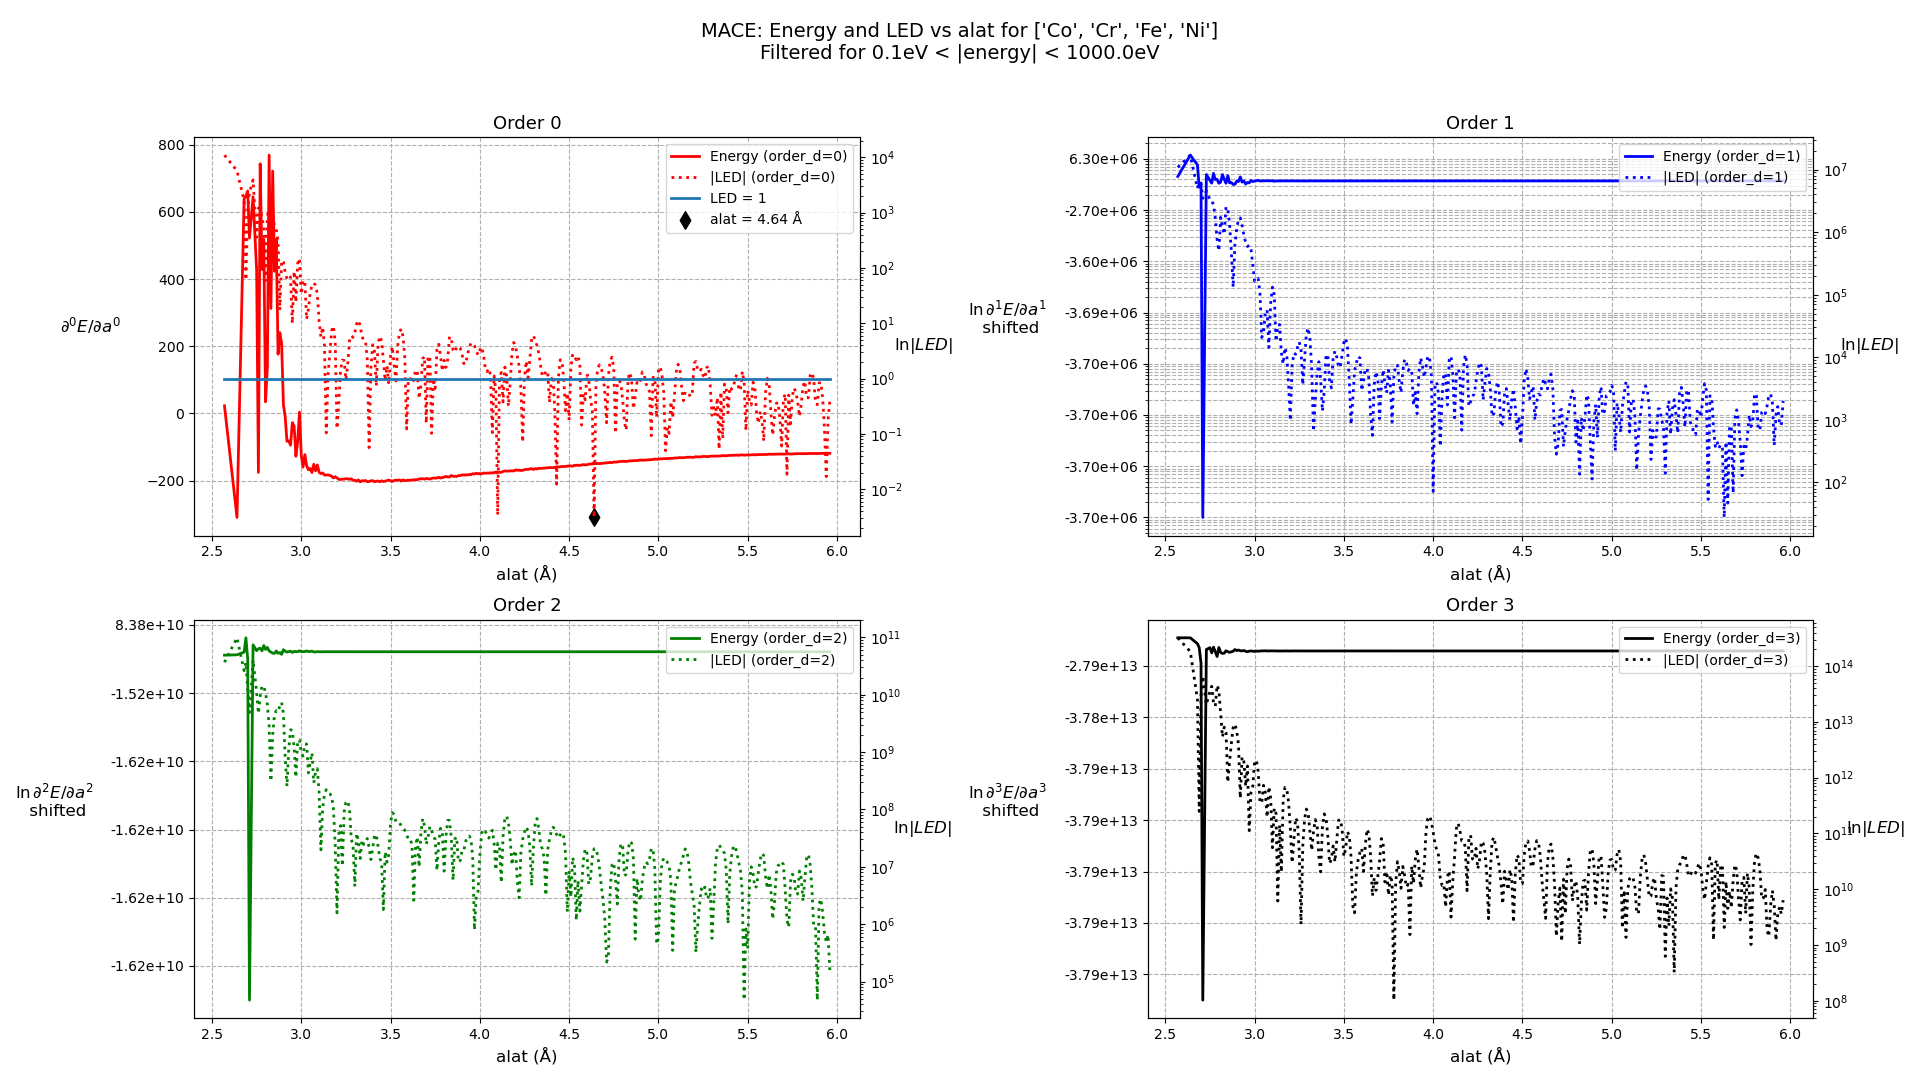
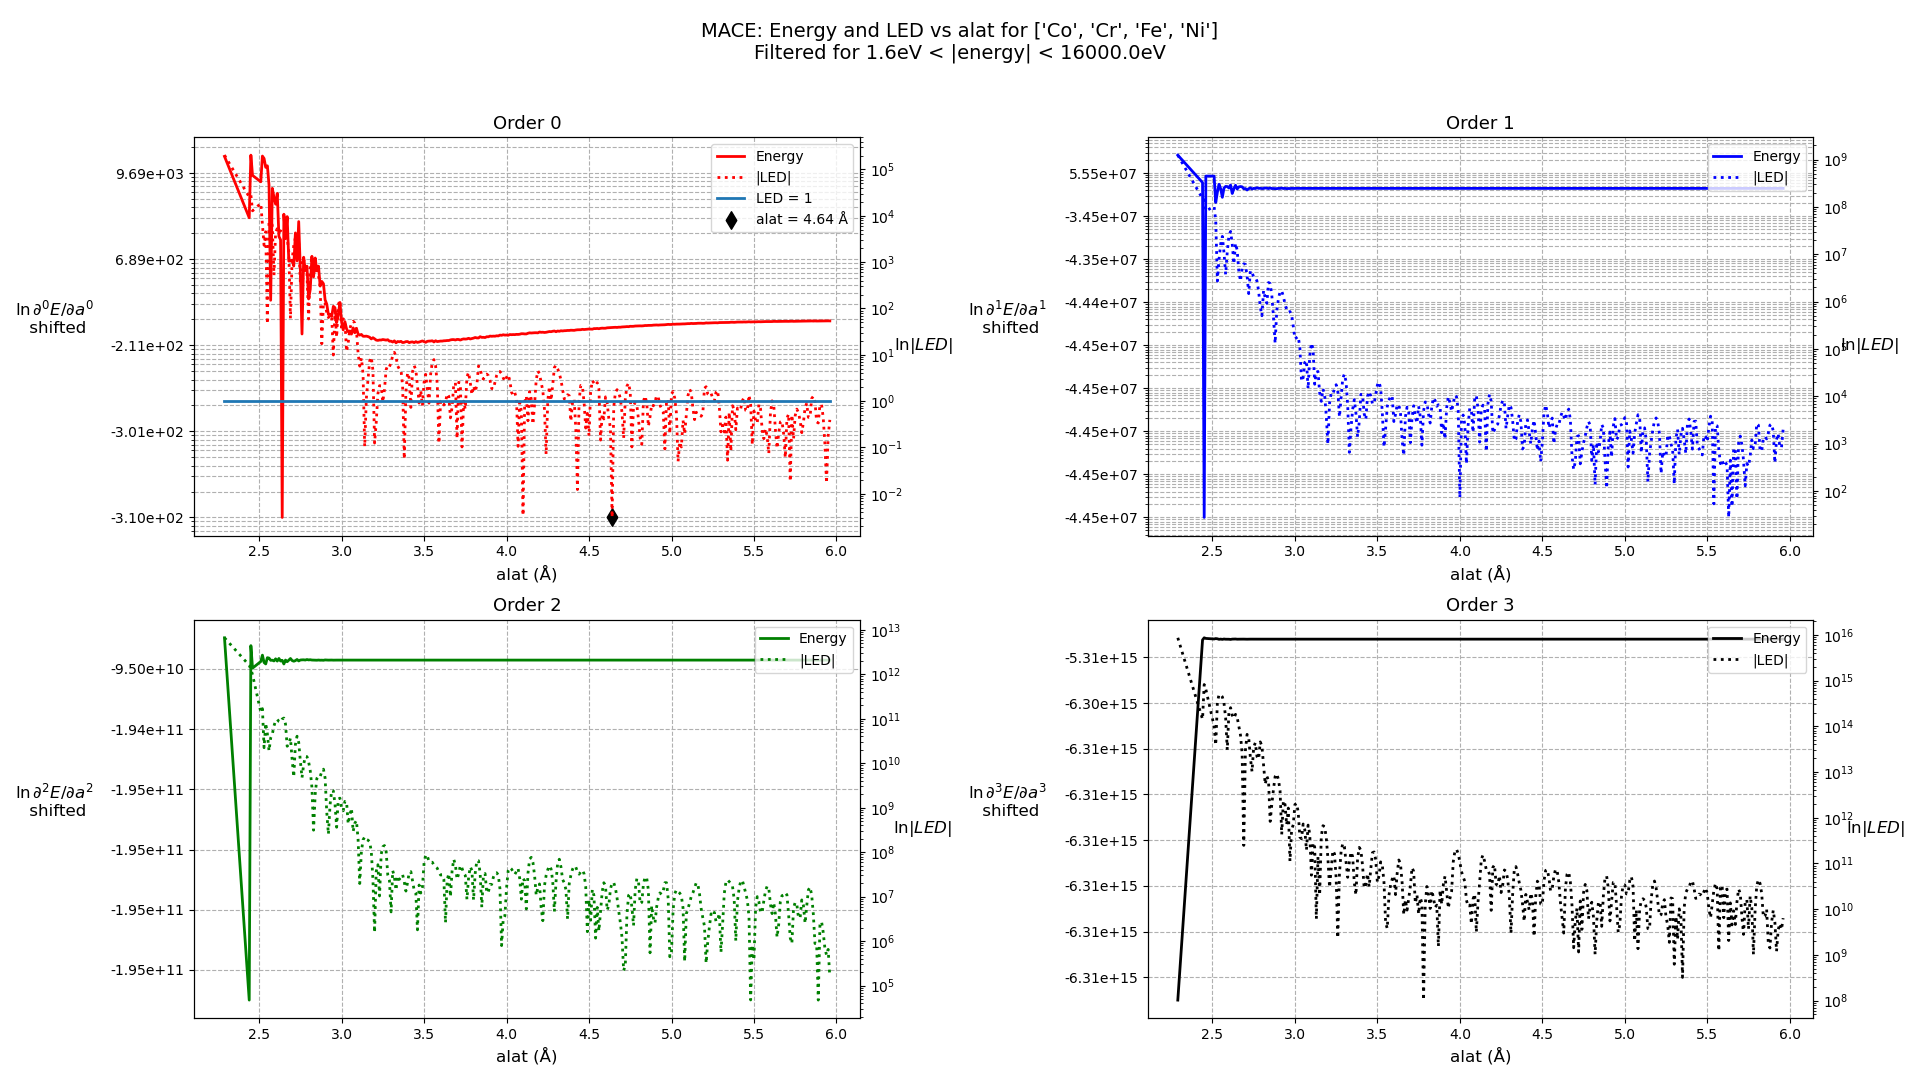
minor edits - log scale

diff --git a/plot-alat-range-finder.py b/plot-alat-range-finder.py
@@ -1,66 +1,66 @@
 
 input_data = [
-    # {
-    #     "species": ["Cd", "Te"],
-    #     "model": "SW_WangStroudMarkworth_1989_CdTe__MO_786496821446_001",
-    #     "model_shortname": "SW_WangStroudMarkworth"
-    # },
-    # {
-    #     "species": ["Si"],
-    #     "model": "SW_StillingerWeber_1985_Si__MO_405512056662_006",
-    #     "model_shortname": "StillingerWebber"
-    # },
-    # {
-    #     "species": ["Si"],
-    #     "model": "SW_LeeHwang_2012GGA_Si__MO_040570764911_001",
-    #     "model_shortname": "SW_LeeHwang"
-    # },
-    # {
-        # "species": ["Al"],
-        # "model": "EAM_CubicNaturalSpline_ErcolessiAdams_1994_Al__MO_800509458712_003",
-        # "model_shortname": "EAMCubinNaturalSpline"
-    # },
-    # {
-        # "species": ["Ni", "Co", "Fe", "Cr", "Mn"],
-        # "model": "TorchML_20231203_MACE_MP_0_128_L1_EP199__MO_000000000000_000",
-        # "model_shortname": "MACE"
-    # },
-    # {
-        # "species": ["Co", "Cr", "Fe", "Ni"],
-        # "model": "TorchML_20231203_MACE_MP_0_128_L1_EP199__MO_000000000000_000",
-        # "model_shortname": "MACE"
-    # },
-    # {
-        # "species": ["Al", "Co", "Cr", "Fe", "Ni"],
-        # "model": "TorchML_20231203_MACE_MP_0_128_L1_EP199__MO_000000000000_000",
-        # "model_shortname": "MACE"
-    # },
-    # {
-        # "species": ["Si"],
-        # "model": "TorchML_20231203_MACE_MP_0_128_L1_EP199__MO_000000000000_000",
-        # "model_shortname": "MACE"
-    # },
-    # {
-        # "species" : ["H","C","N","O","S"],
-        # "model": "TorchML_Allegro_NikidisKyriakopoulosTohidKachrimanisKioseoglou_2024_HCNOS__MO_000000000000_000",
-        # "model_shortname" : "ALLEGRO"
-    # },
+    {
+        "species": ["Cd", "Te"],
+        "model": "SW_WangStroudMarkworth_1989_CdTe__MO_786496821446_001",
+        "model_shortname": "SW_WangStroudMarkworth"
+    },
+    {
+        "species": ["Si"],
+        "model": "SW_StillingerWeber_1985_Si__MO_405512056662_006",
+        "model_shortname": "StillingerWebber"
+    },
+    {
+        "species": ["Si"],
+        "model": "SW_LeeHwang_2012GGA_Si__MO_040570764911_001",
+        "model_shortname": "SW_LeeHwang"
+    },
+    {
+        "species": ["Al"],
+        "model": "EAM_CubicNaturalSpline_ErcolessiAdams_1994_Al__MO_800509458712_003",
+        "model_shortname": "EAMCubinNaturalSpline"
+    },
+    {
+        "species": ["Ni", "Co", "Fe", "Cr", "Mn"],
+        "model": "TorchML_20231203_MACE_MP_0_128_L1_EP199__MO_000000000000_000",
+        "model_shortname": "MACE"
+    },
+    {
+        "species": ["Co", "Cr", "Fe", "Ni"],
+        "model": "TorchML_20231203_MACE_MP_0_128_L1_EP199__MO_000000000000_000",
+        "model_shortname": "MACE"
+    },
+    {
+        "species": ["Al", "Co", "Cr", "Fe", "Ni"],
+        "model": "TorchML_20231203_MACE_MP_0_128_L1_EP199__MO_000000000000_000",
+        "model_shortname": "MACE"
+    },
+    {
+        "species": ["Si"],
+        "model": "TorchML_20231203_MACE_MP_0_128_L1_EP199__MO_000000000000_000",
+        "model_shortname": "MACE"
+    },
+    {
+        "species" : ["H","C","N","O","S"],
+        "model": "TorchML_Allegro_NikidisKyriakopoulosTohidKachrimanisKioseoglou_2024_HCNOS__MO_000000000000_000",
+        "model_shortname" : "ALLEGRO"
+    },
 
-    # {
-        # "species" : ["H"],
-        # "model": "TorchML_Allegro_NikidisKyriakopoulosTohidKachrimanisKioseoglou_2024_HCNOS__MO_000000000000_000",
-        # "model_shortname" : "ALLEGRO"
-    # },
-    # {
-        # "species" : ["C"],
-        # "model": "TorchML_Allegro_NikidisKyriakopoulosTohidKachrimanisKioseoglou_2024_HCNOS__MO_000000000000_000",
-        # "model_shortname" : "ALLEGRO"
-    # },
-    # {
-    #     "species" : ["N"],
-    #     "model": "TorchML_Allegro_NikidisKyriakopoulosTohidKachrimanisKioseoglou_2024_HCNOS__MO_000000000000_000",
-    #     "model_shortname" : "ALLEGRO"
-    # },
+    {
+        "species" : ["H"],
+        "model": "TorchML_Allegro_NikidisKyriakopoulosTohidKachrimanisKioseoglou_2024_HCNOS__MO_000000000000_000",
+        "model_shortname" : "ALLEGRO"
+    },
+    {
+        "species" : ["C"],
+        "model": "TorchML_Allegro_NikidisKyriakopoulosTohidKachrimanisKioseoglou_2024_HCNOS__MO_000000000000_000",
+        "model_shortname" : "ALLEGRO"
+    },
+    {
+        "species" : ["N"],
+        "model": "TorchML_Allegro_NikidisKyriakopoulosTohidKachrimanisKioseoglou_2024_HCNOS__MO_000000000000_000",
+        "model_shortname" : "ALLEGRO"
+    },
     {
         "species" : ["O"],
         "model": "TorchML_Allegro_NikidisKyriakopoulosTohidKachrimanisKioseoglou_2024_HCNOS__MO_000000000000_000",
@@ -80,8 +80,10 @@ import numpy as np
 import matplotlib.ticker as ticker
 from matplotlib.ticker import ScalarFormatter
 
-min_e = 1e-2
-max_e = 1e+5
+# min_e = 1e-2
+# max_e = 1e+5
+min_e = 32 * 5*1e-2
+max_e = 32 * 5*1e+2
 
 def scientific_notation(x, pos):
     """ Formatter for scientific notation with 2 decimal places """
@@ -123,7 +125,7 @@ for data in input_data:
         original_energy = subset['energy'].copy()
 
         # Check if we need to use log-scale for the energy
-        if abs(subset['energy'].max() - subset['energy'].min()) > 1e5:
+        if abs(subset['energy'].max() - subset['energy'].min()) > 1e3:
             # Shift the energy to allow for log-negative values
             subset["energy"] += abs(subset["energy"].min()) + 1
             ax1.set_yscale('log')
@@ -137,22 +139,23 @@ for data in input_data:
         # Plot energy
         ax1.plot(subset['alat'], subset['energy'],
                  linestyle='-', color=colors.get(order, 'black'),
-                 linewidth=2, label=f'Energy (order_d={order})')
+                 linewidth=2, label=f'Energy')
 
         # Plot LED on secondary axis
         ax2.plot(subset['alat'], abs(subset['led']),
                  linestyle=':', color=colors.get(order, 'black'),
-                 linewidth=2, label=f'|LED| (order_d={order})')
+                 linewidth=2, label=f'|LED|')
         
         if order == 0:
             # draw a solid line for |LED| = 1
             ax2.plot(subset['alat'], np.ones_like(subset['led']), lw=2, label="LED = 1")
             # iterate over subset in the rnage 0.2*min_cutoff < alat < 0.8*min_cutoff and find the alat that has smalelst LED
             subset_filtered = subset[(subset['alat'] >= search_range[0]) & (subset['alat'] <= search_range[1])]
-            min_led_row = subset_filtered.loc[np.abs(subset_filtered['led']).idxmin()]
-            good_alat = min_led_row['alat']
-            minLED = min_led_row['led']
-            ax2.scatter(good_alat,np.abs(minLED),color='black',marker='d',s=80,label=f'alat = {good_alat:.2f} Å')
+            if not subset_filtered.empty:
+                min_led_row = subset_filtered.loc[np.abs(subset_filtered['led']).idxmin()]
+                good_alat = min_led_row['alat']
+                minLED = min_led_row['led']
+                ax2.scatter(good_alat,np.abs(minLED),color='black',marker='d',s=80,label=f'alat = {good_alat:.2f} Å')
 
         # Formatting
         ax1.set_title(f'Order {order}', fontsize=13)
